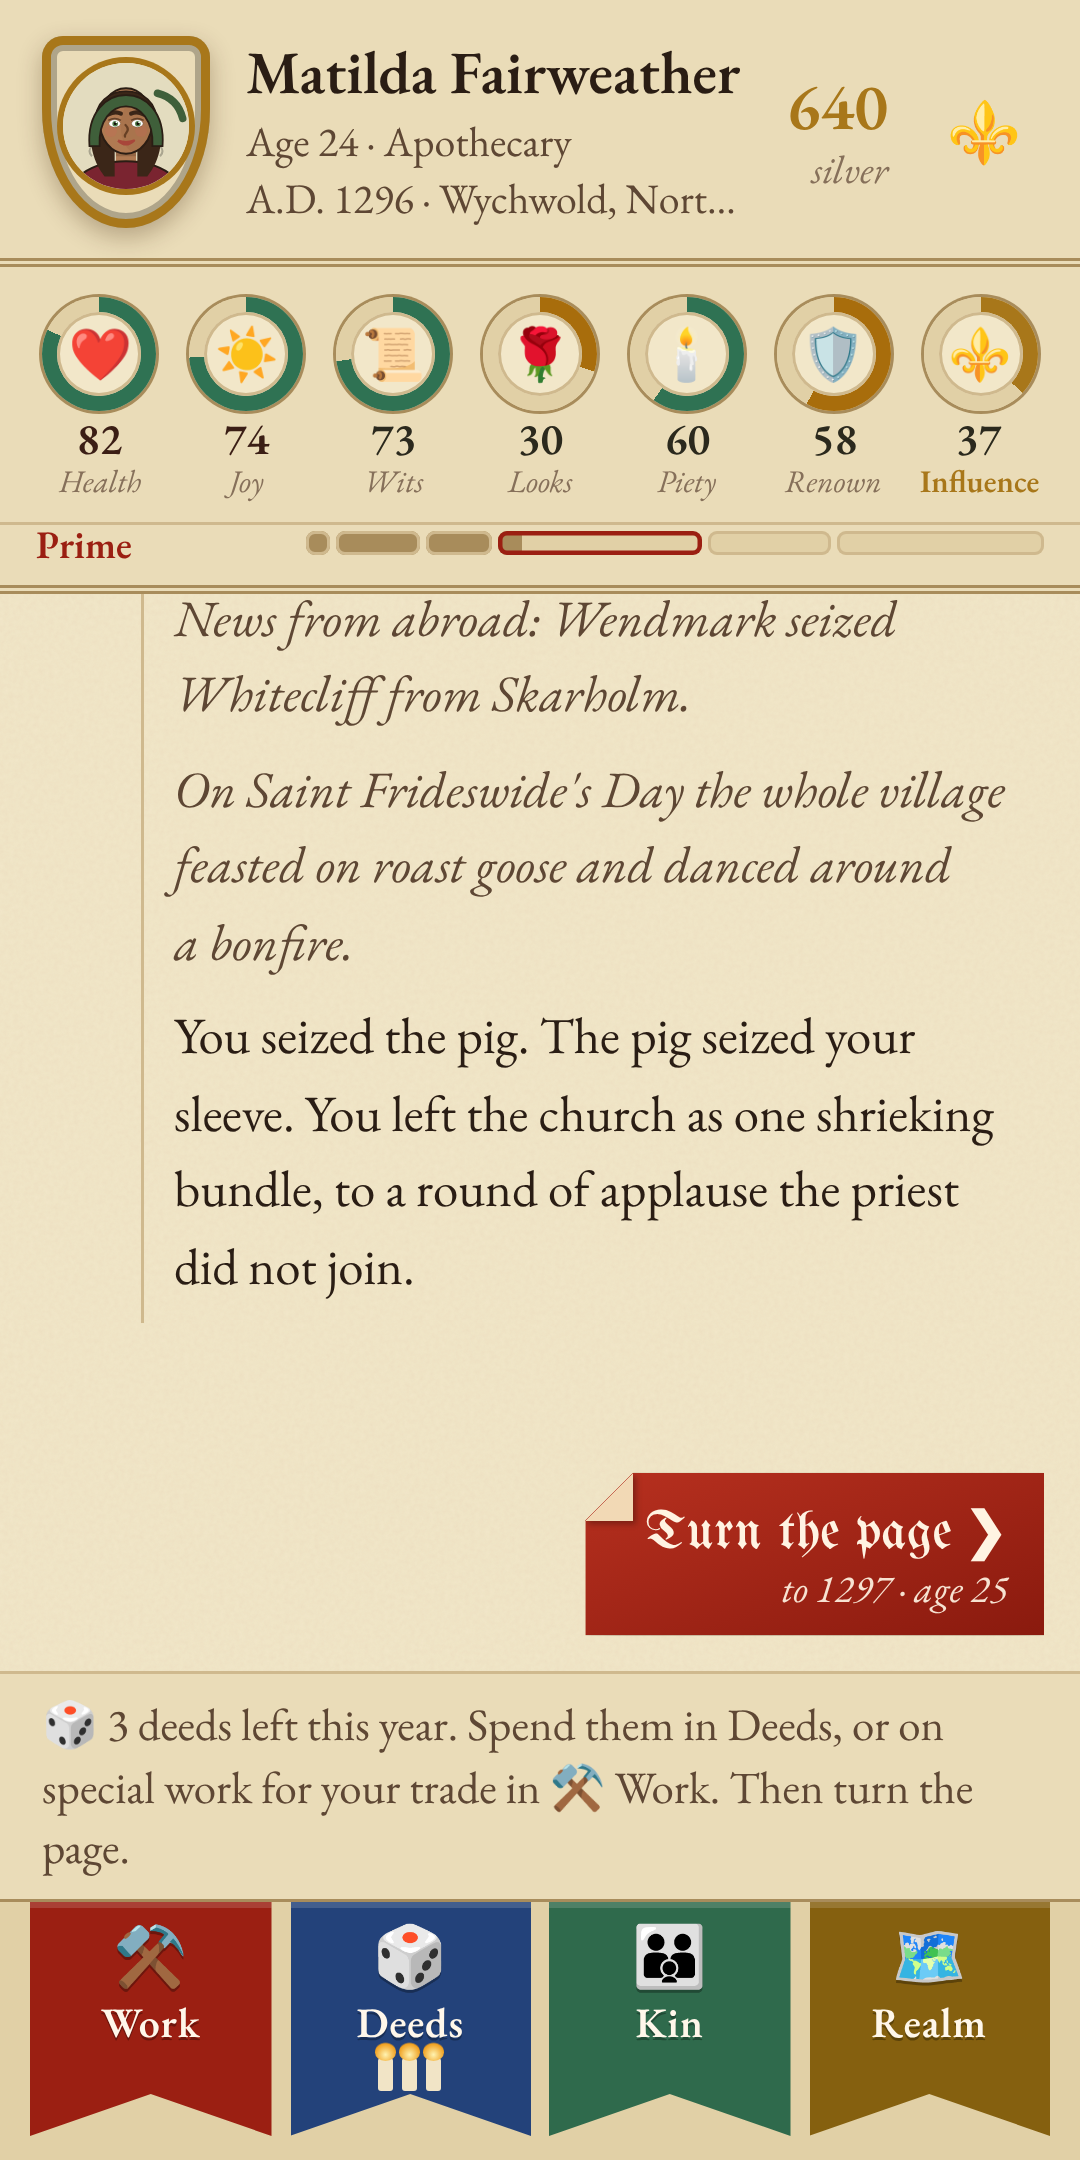
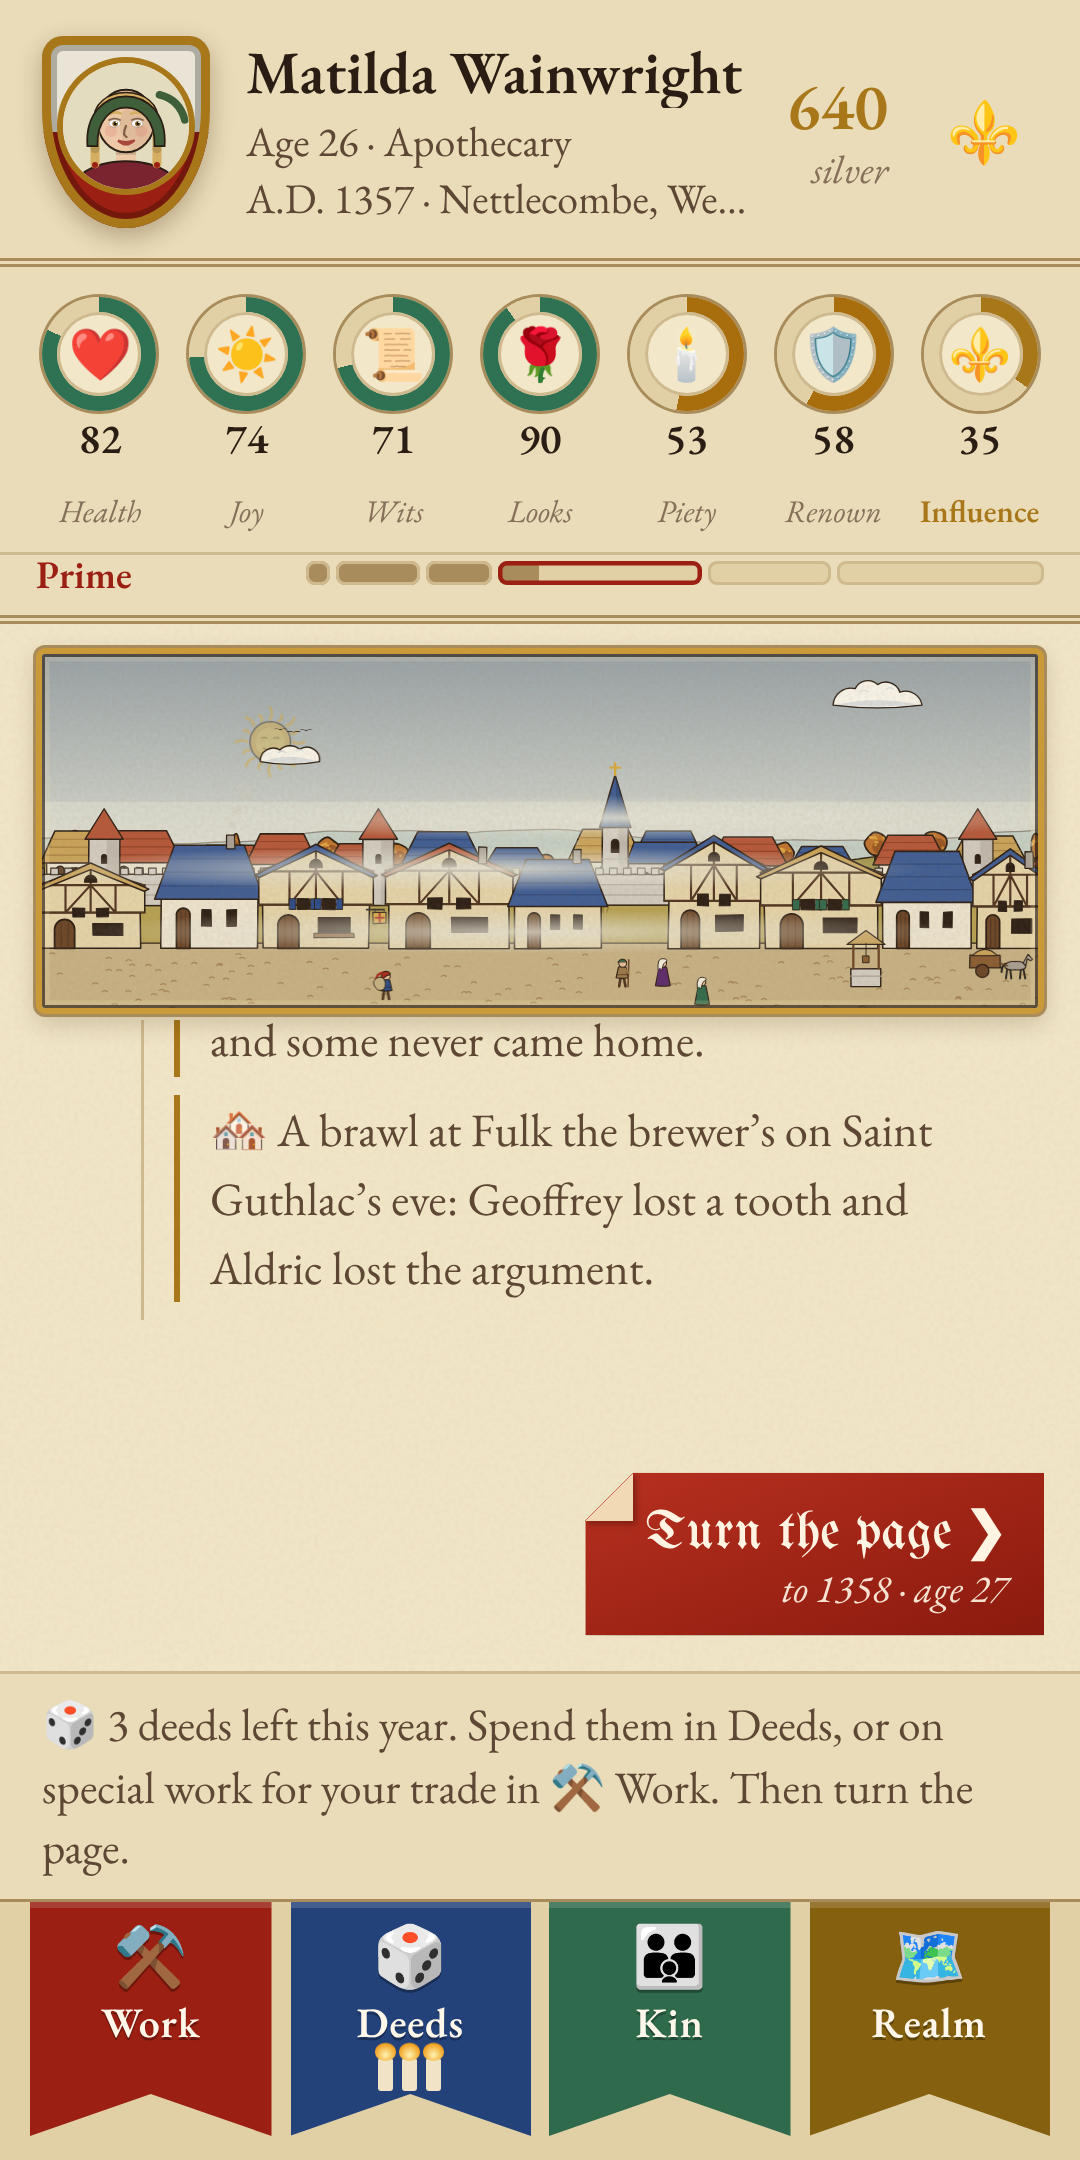
Store kit for v1.5.1: new screenshots, feature graphic, listing text, privacy and support pages
- Fresh iPhone and Android screenshots of the current game (chronicle and
  village scene, Find work, World news, map, battle, a pirate queen's fleet)
- Google Play feature graphic (1024x500)
- STORE_LISTING.md: names, subtitle, keywords, description, age rating and
  privacy answers ready to paste
- privacy.html and support.html for the store links, served by GitHub Pages
- APP_STORE.md: iPhone-only and portrait setup, encryption key, no-Mac option,
  updated checklist

Claude-Session: https://claude.ai/code/session_01Ng8y7vFwhLArsm3PAF3YVs

diff --git a/privacy.html b/privacy.html
@@ -1,0 +1,26 @@
+<!doctype html>
+<html lang="en"><head><meta charset="utf-8"><meta name="viewport" content="width=device-width, initial-scale=1">
+<title>Mud & Crowns privacy policy</title><link rel="icon" href="icons/icon-192.png"><link rel="stylesheet" href="fonts/fonts.css">
+<style>
+:root{--bg:#f2e7c9;--ink:#2b1d12;--red:#9b1f12;--rule:#c7b086}
+@media (prefers-color-scheme: dark){:root{--bg:#1f1912;--ink:#eadfc4;--red:#e0806f;--rule:#5a4a35}}
+body{margin:0;background:var(--bg);color:var(--ink);font:19px/1.55 'EB Garamond',Georgia,serif}
+main{max-width:640px;margin:0 auto;padding:32px 16px 48px}
+h1{font-family:'UnifrakturMaguntia',serif;font-weight:400;color:var(--red);font-size:40px;margin:0 0 4px}
+h2{font-size:22px;margin:28px 0 6px;border-bottom:1px solid var(--rule)}
+a{color:var(--red)} small{opacity:.75} li{margin:4px 0}
+</style></head><body><main>
+<h1>Mud &amp; Crowns</h1>
+<p><b>Privacy policy</b><br><small>Last updated October 2026</small></p>
+<p>Mud &amp; Crowns does not collect, store or share any personal information.</p>
+<ul>
+<li>Your game saves, graveyard, settings and achievements are stored only on your own device, in the app’s local storage. They never leave your device.</li>
+<li>The game has no accounts, no analytics, no advertising and no tracking.</li>
+<li>The game does not use your location, contacts, camera, microphone or any other device data.</li>
+<li>The iPhone and Android apps carry everything they need and make no network requests. The web version loads its typefaces from Google Fonts.</li>
+<li>A backup code (Menu, Back up or move your game) is made on your device and goes only where you paste it.</li>
+<li>Deleting the app deletes all of its data.</li>
+</ul>
+<p>If this ever changes, this policy will be updated before the change ships.</p>
+<p>Questions: <a href="https://github.com/BrennenCol/Mud-Crowns/issues">open an issue on the game’s GitHub page</a>.</p>
+</main></body></html>

diff --git a/support.html b/support.html
@@ -1,0 +1,22 @@
+<!doctype html>
+<html lang="en"><head><meta charset="utf-8"><meta name="viewport" content="width=device-width, initial-scale=1">
+<title>Mud & Crowns support</title><link rel="icon" href="icons/icon-192.png"><link rel="stylesheet" href="fonts/fonts.css">
+<style>
+:root{--bg:#f2e7c9;--ink:#2b1d12;--red:#9b1f12;--rule:#c7b086}
+@media (prefers-color-scheme: dark){:root{--bg:#1f1912;--ink:#eadfc4;--red:#e0806f;--rule:#5a4a35}}
+body{margin:0;background:var(--bg);color:var(--ink);font:19px/1.55 'EB Garamond',Georgia,serif}
+main{max-width:640px;margin:0 auto;padding:32px 16px 48px}
+h1{font-family:'UnifrakturMaguntia',serif;font-weight:400;color:var(--red);font-size:40px;margin:0 0 4px}
+h2{font-size:22px;margin:28px 0 6px;border-bottom:1px solid var(--rule)}
+a{color:var(--red)} small{opacity:.75} li{margin:4px 0}
+</style></head><body><main>
+<h1>Mud &amp; Crowns</h1>
+<p><b>Help and support</b></p>
+<p>Found a bug, or have an idea? <a href="https://github.com/BrennenCol/Mud-Crowns/issues">Tell us on the game’s GitHub page</a>. Say what you were doing, your phone, and the version number from the menu.</p>
+<h2>Common questions</h2>
+<p><b>Where is my game saved?</b><br>On your device only. It saves at the end of every year.</p>
+<p><b>How do I move my game to a new phone?</b><br>Open the menu and choose <i>Back up or move your game</i>. Copy the code, then paste it into Mud &amp; Crowns on the new phone.</p>
+<p><b>How do I play?</b><br>Each year you have three deeds. Spend them in Work, Deeds, Kin or Realm, then tap <i>Turn the page</i>. The menu has a guide and can replay the welcome tour.</p>
+<p><b>Something went wrong.</b><br>If the game ever breaks, it saves and offers to carry on. If a save is damaged, the year before is restored automatically.</p>
+<p><a href="privacy.html">Privacy policy</a>: no data is collected.</p>
+</main></body></html>

diff --git a/STORE_LISTING.md b/STORE_LISTING.md
@@ -1,0 +1,117 @@
+# Store listing: text to paste
+
+Everything the App Store and Google Play ask for, ready to copy. The
+pictures are in `store/`.
+
+## Links
+
+| Field | Link |
+|---|---|
+| Privacy policy URL | https://brennencol.github.io/Mud-Crowns/privacy.html |
+| Support URL | https://brennencol.github.io/Mud-Crowns/support.html |
+| Marketing / website (optional) | https://brennencol.github.io/Mud-Crowns/ |
+
+These come from GitHub Pages (repo Settings → Pages). Open each link once in a
+browser to check that it loads before you paste it.
+
+## Names and short lines
+
+| Field | Limit | Text |
+|---|---|---|
+| App Store name | 30 | `Mud & Crowns` |
+| App Store subtitle | 30 | `From serf to sovereign` |
+| Google Play name | 30 | `Mud & Crowns: Medieval Life` |
+| Google Play short description | 80 | `Live a whole medieval life, from serf to sovereign. Every choice is yours.` |
+| App Store keywords | 100 | `medieval,life simulator,kingdom,knight,dynasty,peasant,king,queen,pirate,history,choices,text,rpg` |
+
+Keywords: no spaces after commas, and don't repeat words that are already in
+the name. Never use another game's name.
+
+**Promotional text** (App Store, 170 characters, can be changed any time
+without a review):
+
+> A whole life in a living medieval world. Farm, trade, sail, fight and scheme
+> your way from the mud to the crown, then carry on as your heir.
+
+## Description (both stores)
+
+```
+Live a whole life in a medieval kingdom, one year at a time.
+
+Be born a serf in a muddy village, a smith's child, a merchant's heir or a royal prince. Each year you have three deeds: work your trade, court a sweetheart, pray, train, scheme, gamble or march to war. Then turn the page and see what the year brings.
+
+A WORLD THAT LIVES WITHOUT YOU
+Kings age, marry and die. Heirs fight over empty thrones. Plague and famine sweep the counties, outlaws and knights make their names, and your neighbours have lives of their own. The chronicle tells you all of it.
+
+NEARLY 300 POSTS TO RISE THROUGH
+Farm labourer, apprentice, blacksmith, apothecary, monk, minstrel, thief, sailor, knight, merchant, royal guard, chancellor, pirate queen. Careers have real steps: learn the work in one post to earn the next, or find a way around it through noble birth, the king's favour or a powerful patron.
+
+SHIPS, TRADE AND HIGH OFFICE
+Captain a pirate ship and raid the coasts. Send trade runs across six markets. Serve the crown with duties of your own.
+
+WAR AND CONQUEST
+Raise an army, choose your tactics and take counties on a living map of nine kingdoms. Rule as a lord, then as a monarch with a council, taxes and decrees.
+
+LOVE, FAMILY AND DYNASTY
+Court, marry and raise children. When you die, carry on as your heir. Your graveyard remembers every life.
+
+FAIR AND PRIVATE
+No ads, no accounts, no tracking. Plays fully offline. Your saves stay on your device, and a backup code moves them to a new phone.
+```
+
+## What's new (for this version)
+
+```
+Careers now have steps: serve as a pirate before you command pirates, or as a soldier before the Royal Guard. Noble birth, the king's favour or a patron can open the door instead. Apply for a post straight from the list, see which post to start in first, and enjoy tidier menus with one section open at a time.
+```
+
+## Category
+
+- App Store: **Games**, subcategories **Simulation** and **Role Playing**
+- Google Play: **Games → Simulation**. Tags: Simulation, Role playing, Single
+  player, Offline, Stylized
+
+## Age rating answers
+
+Answer the questionnaires honestly. For this game:
+
+| Question | Answer |
+|---|---|
+| Violence | Yes: realistic, described in text, not graphic (battles, executions, hanging) |
+| Blood or gore | No |
+| Sexual content or nudity | No (courtship and marriage only, nothing shown) |
+| Mature or suggestive themes | Infrequent and mild (death, plague, crime, prison) |
+| Alcohol, tobacco or drugs | References only (taverns, ale, drunkenness) |
+| Simulated gambling | Yes: dice games with in-game silver, no real money |
+| Real-money gambling | No |
+| Profanity or crude humour | Infrequent and mild |
+| Horror or fear themes | Infrequent and mild |
+| Users can talk to each other | No |
+| Shares location | No |
+| Web access or unrestricted browsing | No |
+
+Expect about **13+** on the App Store and **Teen / PEGI 12** on Google Play.
+On Google Play's target audience question, choose **13 and over**, so the
+"Designed for Families" rules don't apply.
+
+## Privacy answers
+
+- App Store, App Privacy: **Data Not Collected**
+- Google Play, Data safety: **No data collected, no data shared**. The app has
+  no ads, no accounts, no analytics and makes no network requests.
+- Google Play, "Contains ads": **No**
+- App Store, export compliance (encryption): **No**, the app uses no
+  encryption beyond what iOS itself provides
+
+## Pictures
+
+| What | File | Where it goes |
+|---|---|---|
+| iPhone screenshots | `store/ios-6.7in/1-chronicle.png` to `6-pirate-fleet.png` (1290×2796) | App Store Connect → iPhone 6.9" display |
+| Android screenshots | `store/android-phone/*.png` (1080×2160) | Play Console → Phone screenshots |
+| Feature graphic | `store/android-feature-graphic.png` (1024×500) | Play Console → Feature graphic (required) |
+| App icon, Google Play | `icons/icon-512.png` | Play Console → App icon |
+| App icon, App Store | `icons/icon-1024.png` | Set inside Xcode by `npx capacitor-assets generate` |
+
+Screenshot order: 1 the chronicle and village, 2 finding work, 3 news of the
+world, 4 the map of nine kingdoms, 5 a battle, 6 a pirate queen's fleet.

diff --git a/APP_STORE.md b/APP_STORE.md
@@ -38,6 +38,20 @@ npx cap add android
 This creates `ios/` and `android/` folders holding real Xcode and Android
 Studio projects. Commit them.
 
+Then, once, in the new projects:
+
+- **Xcode** (open with `npx cap open ios`), target *App*, tab *General*:
+  under *Supported Destinations* remove **iPad** (or Apple will also ask for
+  iPad screenshots), and under *Deployment Info* tick **Portrait** only. In
+  *Info*, add the key `ITSAppUsesNonExemptEncryption` set to `NO`, so you
+  aren't asked about encryption on every upload.
+- **Android Studio**: in `android/app/src/main/AndroidManifest.xml`, add
+  `android:screenOrientation="portrait"` to the `<activity>` line.
+
+**No Mac?** You can still build for iPhone with a cloud Mac service such as
+Codemagic (it has a free tier) or by renting a Mac online. Android works on
+any computer.
+
 ## Step 2: icons and splash screen
 
 ```sh
@@ -66,23 +80,25 @@ press Run.
 2. *Product → Archive*, then *Distribute App → App Store Connect*.
 3. In [App Store Connect](https://appstoreconnect.apple.com), create the app
    and add:
-   - screenshots (6.7" and 6.5" iPhone sizes)
-   - a description, keywords, and a support URL
-   - a privacy policy URL (host `PRIVACY.md` on GitHub Pages)
+   - the screenshots in `store/ios-6.7in/` (they fit the 6.9" iPhone slot)
+   - the name, subtitle, description, keywords and links from
+     `STORE_LISTING.md`
 4. **App Privacy**: choose *Data Not Collected*. The game stores saves only on
    the device.
-5. **Age rating questionnaire**: answer honestly. The game has cartoon or
-   fantasy violence (battles, executions), alcohol references (taverns),
-   simulated gambling (dice wagers), and mature themes (plague, death).
-   Expect roughly a 12+ rating.
+5. **Age rating questionnaire**: answer honestly. `STORE_LISTING.md` has the
+   answers for this game (text violence, alcohol references, simulated
+   gambling with no real money, mild mature themes). Expect 13+.
 6. Submit for review. It usually takes 1 to 3 days.
 
 **Google**
 1. In Android Studio, *Build → Generate Signed App Bundle* (.aab). Keep the
    keystore file safe forever: you need it for every update.
 2. In the [Play Console](https://play.google.com/console), create the app,
-   fill in the store listing, content rating (IARC questionnaire), and data
-   safety form ("no data collected"), and upload the .aab.
+   fill in the store listing from `STORE_LISTING.md` (screenshots in
+   `store/android-phone/`, the feature graphic
+   `store/android-feature-graphic.png`, the icon `icons/icon-512.png`), the
+   content rating (IARC questionnaire), the data safety form ("no data
+   collected"), and upload the .aab.
 3. New personal developer accounts must run a closed test with at least 12
    testers for 14 days before going public.
 
@@ -105,9 +121,12 @@ Already done in this repo:
 
 - [x] Works fully offline (bundled fonts, service worker)
 - [x] App icon in every size (`icons/`), source in `icons/icon.svg`
-- [x] Store screenshots: `store/ios-6.7in/` (1290×2796, for the 6.7" and
-      6.9" iPhone slots) and `store/android-phone/` (1080×2160)
-- [x] Privacy policy (`PRIVACY.md`): no data collected
+- [x] Store screenshots of version 1.5: `store/ios-6.7in/` (1290×2796, for
+      the 6.9" iPhone slot) and `store/android-phone/` (1080×2160)
+- [x] Google Play feature graphic: `store/android-feature-graphic.png`
+- [x] Store text, age rating and privacy answers: `STORE_LISTING.md`
+- [x] Privacy policy and support pages (`privacy.html`, `support.html`),
+      served by GitHub Pages
 - [x] First-time welcome tour, hint line, and help in the menu
 - [x] Crash guard: if something breaks, the game saves and offers to carry on
 - [x] Save backup: the previous year is kept and restored automatically if a
@@ -125,11 +144,9 @@ You still need to:
       `com.yourname.mudcrowns`). It can never change after release.
 - [ ] Put your name in place of "the Mud & Crowns authors" (menu About text and
       `LEGAL_NOTES.md`)
-- [ ] Host `PRIVACY.md` (GitHub Pages works) and use its link in both stores
+- [ ] Check that https://brennencol.github.io/Mud-Crowns/privacy.html and
+      `support.html` load (GitHub Pages must be on: Settings → Pages)
 - [ ] Search the name in the USPTO database and both stores
-- [ ] Write the store description. Suggested subtitle: "A medieval life, from
-      serf to sovereign". Keywords: medieval, life simulator, kingdom, knight,
-      dynasty, choices, text adventure, history. **Never** another game's name.
 - [ ] Test on a real iPhone and Android phone: notch, dark mode, closing and
       reopening, and a backup code round trip
 - [ ] For every update: raise `APP_VERSION`, the `version` in `package.json`,

diff --git a/PRIVACY.md b/PRIVACY.md
@@ -1,6 +1,6 @@
 # Privacy policy for Mud & Crowns
 
-Last updated: 2026
+Last updated: October 2026
 
 Mud & Crowns does not collect, store, or share any personal information.
 
@@ -9,6 +9,8 @@ Mud & Crowns does not collect, store, or share any personal information.
 - The game has no accounts, no analytics, no advertising, and no tracking.
 - The game does not use your location, contacts, camera, microphone, or any
   other device data.
+- The iPhone and Android apps carry everything they need and make no network
+  requests. The web version loads its typefaces from Google Fonts.
 - Deleting the app deletes all of its data.
 
 If this ever changes, this policy will be updated before the change ships.

diff --git a/README.md b/README.md
@@ -83,8 +83,9 @@ in the menu.
 ## Apps
 
 See [APP_STORE.md](APP_STORE.md) to install the game from the web, or to ship
-it to the App Store and Google Play. See [PRIVACY.md](PRIVACY.md) and
-[LEGAL_NOTES.md](LEGAL_NOTES.md).
+it to the App Store and Google Play. [STORE_LISTING.md](STORE_LISTING.md) has
+the store text to paste, and `store/` the screenshots. See
+[PRIVACY.md](PRIVACY.md) and [LEGAL_NOTES.md](LEGAL_NOTES.md).
 
 ## War
 
